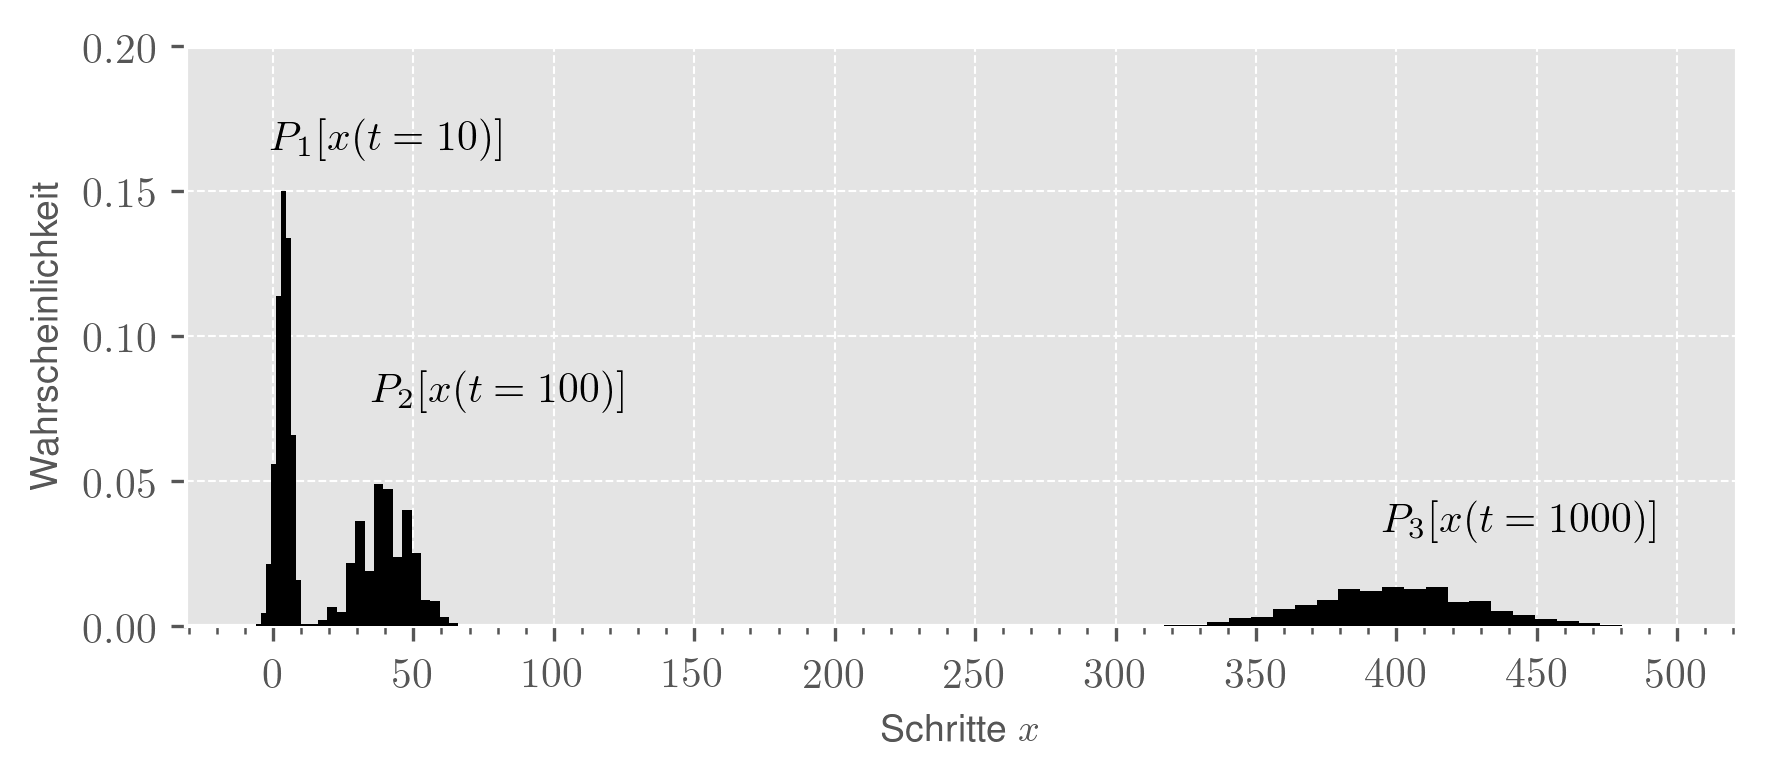
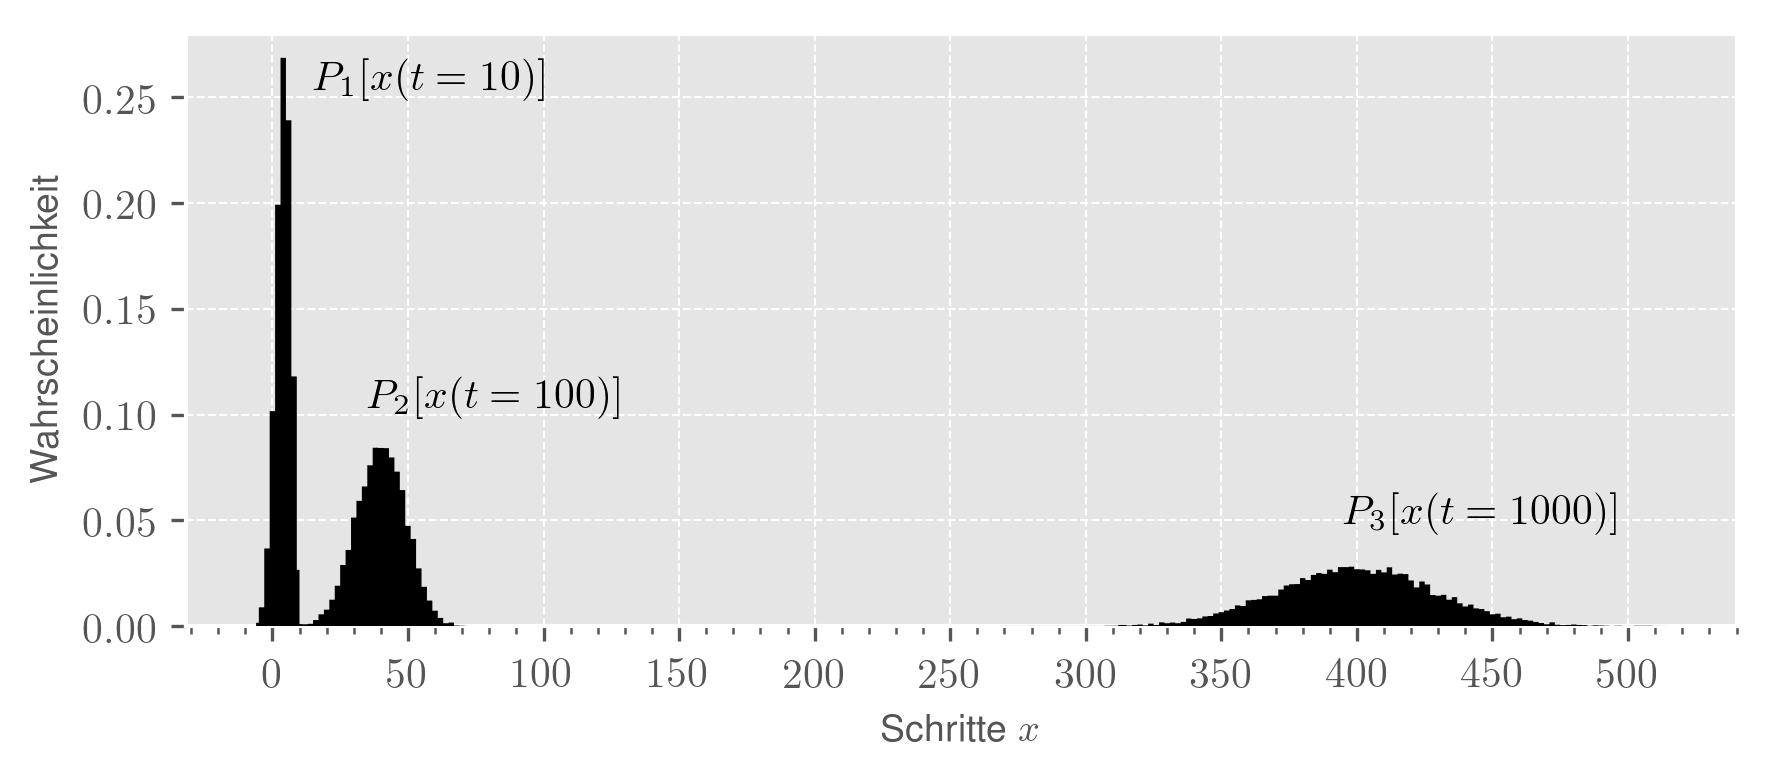
.

diff --git a/docs/Tutorials/Intro_1/Intro_1.html b/docs/Tutorials/Intro_1/Intro_1.html
@@ -6,8 +6,8 @@
   <meta name="viewport" content="width=device-width, initial-scale=1">
 
   <!-- STYLE -->
-  <link rel="stylesheet" type="text/css" href="https://quentinwach.github.io/Animating-Science/style.css">
-  <!--<link rel="stylesheet" type="text/css" href="http://localhost:8000/Dokumente/Computerphysik/docs/style.css">-->
+  <!--<link rel="stylesheet" type="text/css" href="https://quentinwach.github.io/Animating-Science/style.css">-->
+  <link rel="stylesheet" type="text/css" href="http://localhost:8000/Dokumente/Computerphysik/docs/style.css">
 
   <link href="https://fonts.googleapis.com/css?family=Roboto" rel="stylesheet">
   <link rel="stylesheet" href="https://fonts.googleapis.com/icon?family=Material+Icons">
@@ -272,6 +272,20 @@ plt.show()</code></pre>
     <!-- LIMITS -->
     <hr>
     <p><b><a>Limits</a></b></p>
+    <p>
+      Although Matplotlib automatically sets the axis range of the ticks so that all of the data is displayed, not only does it often look plain ugly, you may also be primarily interested in a certain area of the plot, which you want to highlight of course.
+    </p>
+    <p>
+      You can either do this the quick and dirty way with pyplot e.g. like this:
+    </p>
+      <pre><code class="python">ax.xaxis.set_major_locator(plt.NullLocator())     # x-axis without ticks
+ax.xaxis.set_major_formatter(plt.NullFormatter()) # x-axis without labels</code></pre>
+    <p>
+      Or the right way, specifying the limits of the indivdual axes oject:
+    </p>
+      <pre><code class="python">ax.xaxis.set_major_locator(plt.NullLocator())     # x-axis without ticks
+ax.xaxis.set_major_formatter(plt.NullFormatter()) # x-axis without labels</code></pre>
+    </p>
 
     <hr>
     <p><b><a href="https://matplotlib.org/3.2.1/api/ticker_api.html" target="_blank">Ticks</a></b></p>
@@ -312,7 +326,7 @@ ax.xaxis.set_major_formatter(plt.NullFormatter()) # x-axis without labels</code>
 
     <hr>
     <p><b><a>Spines</a></b></p>
-
+    <a href="https://matplotlib.org/3.2.1/gallery/ticks_and_spines/spine_placement_demo.html" target="_blank">SPINE LINK </a>
 
     <hr>
     <h3>Text, Math & Annotations</h3>

diff --git a/docs/style.css b/docs/style.css
@@ -5,8 +5,7 @@ body {
   background-color: white;
   margin-top: 0px;
   padding: 0px;
-  padding-bottom: 200px;
-}
+  padding-bottom: 200px;}
 hr {
   width: 100%;
   margin-top: 25px;
@@ -34,7 +33,7 @@ h2 {
 h3 {
   font-family: "Roboto";
   color: white;
-  background-color: #DC143C;
+  background-color: gray ; /*#DC143C;*/
   letter-spacing: 0.2px;
   font-size: 18px;
   border: 2px solid;
@@ -400,3 +399,5 @@ button.star {
     width:98%;
   }
 } 
+
+/* -------------- */

diff --git a/docs/index.html b/docs/index.html
@@ -93,6 +93,7 @@
         <b>Animate the Data</b> - Intro 3
       </a>
     </div>
+
     <!--
     <p style="color: gray; text-align: center;font-size: 14px;">Examples</p>
     <div class="box">

diff --git a/Walker Statistik/run.py b/Walker Statistik/run.py
@@ -10,22 +10,22 @@ import numpy as np
 import math
 np.random.seed(14520)
 
-# figure setup
+# Figure Setup
 matplotlib.style.use('ggplot')
 fig, ax = plt.subplots(1, figsize=(6,2.7), dpi=300)
 
-# HYPERPARAMETER
-P = 0.3     # Schritt nach Links
-Q = 1 - P   # Schritt nach Rechts
-T = (10,100,1000)     # Zeitschritte
-E = 3000              # Experimente
+# Parameter
+P = 0.3               # Schritt nach Links
+Q = 1 - P             # Schritt nach Rechts
+T = (10,100,1000)     # Schritte
+V = 10000              # Versuche pro Experiment
 
-# DATEN
-a = 0
+# Experimente
 for t in T:
-    # Verteilung
+
+    # Endpunkte [Schritte]
     X = []
-    for e in range(E):
+    for v in range(V):
         x = 0       # Startpunkt
         for i in range(t):
             if np.random.random_sample() <= P:
@@ -33,13 +33,32 @@ for t in T:
             else:
                 x += 1
         X.append(x)
-    # Breite der Verteilung
-    # B = abs(min(X)) +  abs(max(X))
-    a += 1
-    ax.hist(X, 9*a, density=True, align="mid", color="black", zorder=30)
+    X = sorted(X)
+    
+    # Wahrscheinlichkeiten
+    Y = []
+    for x in X:
+        Y.append(X.count(x)/len(X))
+
+    # Histogramm
+    ax.fill_between(X, Y, facecolor='black', step="mid", zorder=30)
+
+    # entferne Überflüssige Daten (besser wäre, sie zu mitteln)
+    new_X = []; new_Y = []
+    for x in X:
+        if x not in new_X:
+            new_X.append(x)
+            new_Y.append(Y[X.index(x)])
+
+    # Shannon-Information
+    I = 0
+    for y in new_Y:
+        I += y * math.log(y, np.e)
+    print(I)
+
 
 # Axes & Grid
-ax.set_ylim(0,0.2)
+ax.set_ylim(0,0.28)
 ax.xaxis.set_major_locator(ticker.MultipleLocator(50))
 ax.xaxis.set_minor_locator(ticker.MultipleLocator(10))
 ax.grid(b=True, color='white', linestyle="--", linewidth=0.5, zorder=0)
@@ -47,9 +66,9 @@ ax.grid(b=True, color='white', linestyle="--", linewidth=0.5, zorder=0)
 # Label & Text
 plt.ylabel("Wahrscheinlichkeit", size=9)
 plt.xlabel(r"Schritte $x$", size=9)
-plt.text(-1, 0.162, r"$P_1[x(t=10)]$")
-plt.text(35, 0.075, r"$P_2[x(t=100)]$")
-plt.text(395, 0.03, r"$P_3[x(t=1000)]$")
+plt.text(15, 0.25, r"$P_1[x(t=10)]$")
+plt.text(35, 0.10, r"$P_2[x(t=100)]$")
+plt.text(395, 0.045, r"$P_3[x(t=1000)]$")
 
 # Render
 plt.tight_layout()
